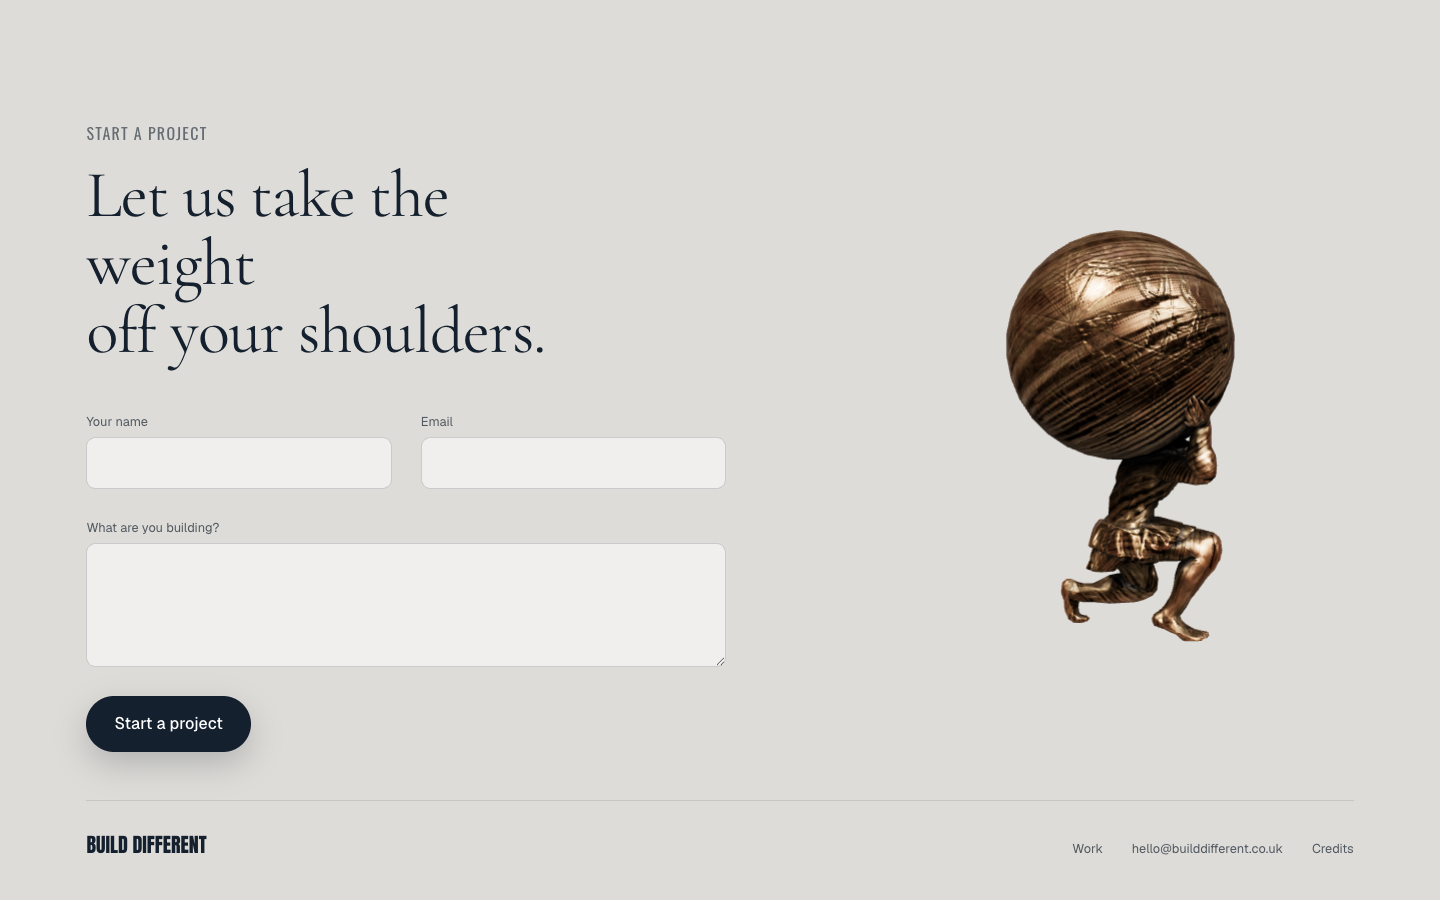
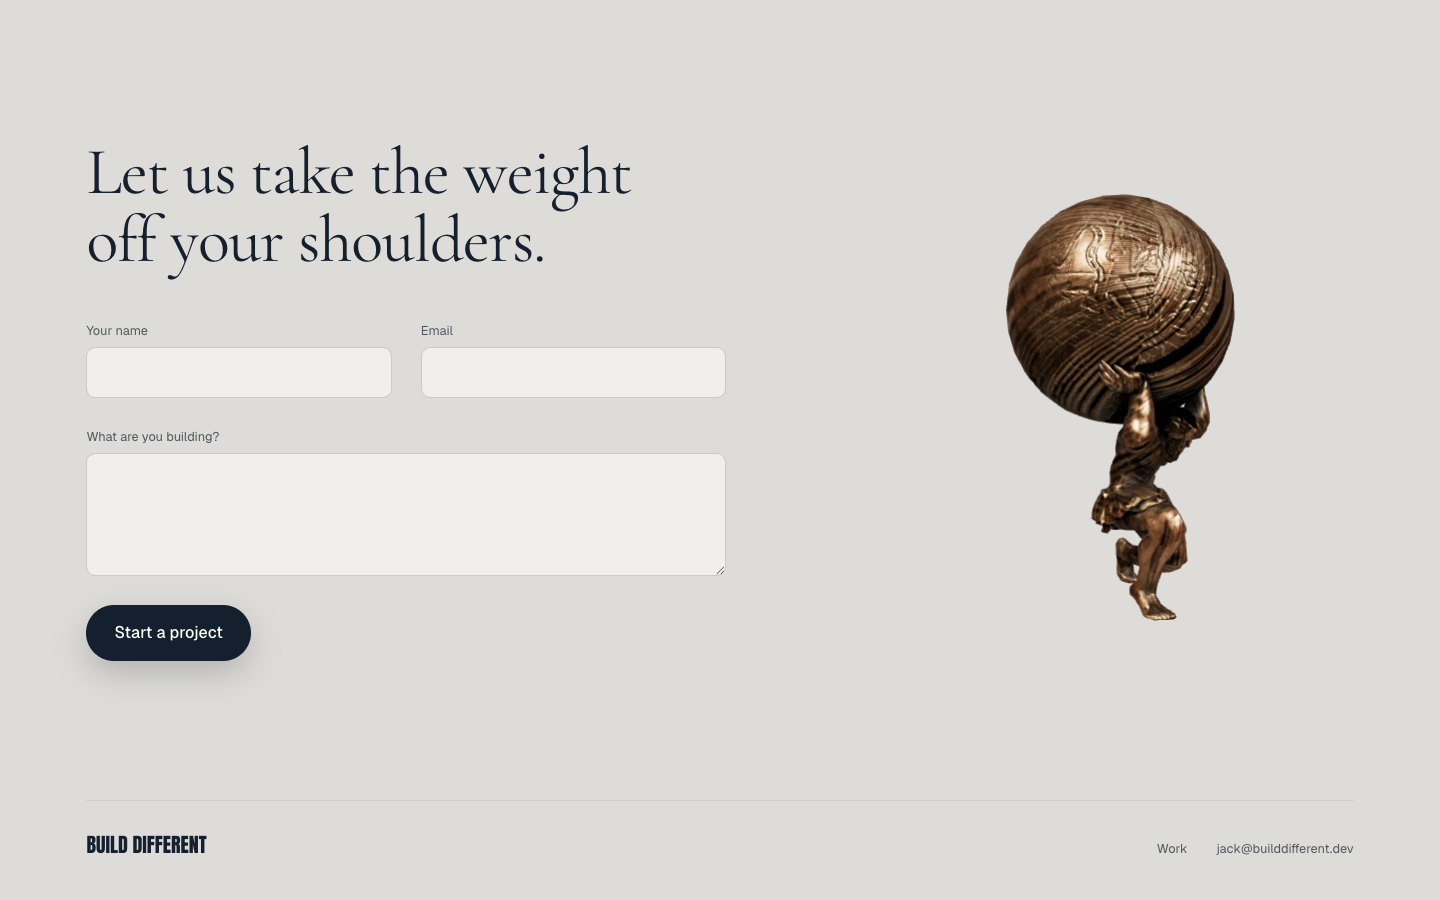
Footer: Atlas faces forward on arrival, email jack@builddifferent.dev, credits link and kicker removed, more air above the foot row
Claude-Session: https://claude.ai/code/session_01NAdPXLUXCGhh82qBsMYyAh

diff --git a/src/footer/AtlasCanvas.tsx b/src/footer/AtlasCanvas.tsx
@@ -7,9 +7,15 @@ import * as THREE from "three";
 const ATLAS = "/models/atlas.glb?v=2026-09-05a";
 const DRACO = "/draco/";
 
-function Atlas() {
+/** the yaw at which Atlas faces the viewer; ?atlasYaw= on the URL overrides it and holds him still, for QA */
+const qaYaw = typeof window !== "undefined" ? new URLSearchParams(window.location.search).get("atlasYaw") : null;
+const FRONT = qaYaw !== null ? Number(qaYaw) : -Math.PI / 2;
+
+function Atlas({ visible }: { visible: boolean }) {
   const gltf = useGLTF(ATLAS, DRACO);
   const group = useRef<THREE.Group>(null);
+  // every time the footer comes into view he starts facing forward, then turns
+  useEffect(() => { if (visible && group.current) group.current.rotation.y = FRONT; }, [visible]);
   const scene = useMemo(() => {
     const s = gltf.scene;
     s.traverse((o) => { if ((o as THREE.Mesh).isMesh) { (o as THREE.Mesh).castShadow = true; (o as THREE.Mesh).receiveShadow = true; } });
@@ -18,11 +24,11 @@ function Atlas() {
   const reduced = useRef(false);
   useEffect(() => { reduced.current = window.matchMedia("(prefers-reduced-motion: reduce)").matches; }, []);
   useFrame((_, dt) => {
-    if (!group.current || reduced.current) return;
+    if (!group.current || reduced.current || qaYaw !== null) return;
     group.current.rotation.y += Math.min(dt, 0.05) * 0.22;
   });
   return (
-    <group ref={group} position={[0, -1.1, 0]} rotation={[0, -0.6, 0]}>
+    <group ref={group} position={[0, -1.1, 0]} rotation={[0, FRONT, 0]}>
       <primitive object={scene} />
     </group>
   );
@@ -45,7 +51,7 @@ export function AtlasCanvas() {
         onCreated={({ gl }) => { gl.toneMapping = THREE.ACESFilmicToneMapping; gl.toneMappingExposure = 1.0; gl.setClearColor(0x000000, 0); }}>
         <Suspense fallback={null}>
           <Environment files="/hdri/brown_photostudio_02_1k.hdr" environmentIntensity={0.9} />
-          <Atlas />
+          <Atlas visible={visible} />
         </Suspense>
         <directionalLight position={[-3, 5, 3]} intensity={2.4} color="#fff3e6" castShadow shadow-mapSize={[1024, 1024]} />
         <hemisphereLight args={["#dfe8f2", "#6f6a63", 0.5]} />

diff --git a/src/footer/Footer.tsx b/src/footer/Footer.tsx
@@ -6,9 +6,8 @@ export function Footer() {
     <footer className="footer" id="contact">
       <div className="footer__inner">
         <div className="footer__copy">
-          <p className="footer__kicker">Start a project</p>
           <h2 className="footer__title">Let us take the weight<br />off your shoulders.</h2>
-          <form className="footer__form" action="mailto:hello@builddifferent.co.uk" method="post" encType="text/plain">
+          <form className="footer__form" action="mailto:jack@builddifferent.dev" method="post" encType="text/plain">
             <label className="field">
               <span>Your name</span>
               <input name="name" type="text" autoComplete="name" required />
@@ -30,8 +29,7 @@ export function Footer() {
         <span className="footer__brand">Build Different</span>
         <nav className="footer__links" aria-label="Footer">
           <a href="/work">Work</a>
-          <a href="mailto:hello@builddifferent.co.uk">hello@builddifferent.co.uk</a>
-          <a href="/CREDITS.md">Credits</a>
+          <a href="mailto:jack@builddifferent.dev">jack@builddifferent.dev</a>
         </nav>
       </div>
     </footer>

diff --git a/src/app/globals.css b/src/app/globals.css
@@ -901,8 +901,9 @@ footer.section {
   justify-content: space-between;
   align-items: baseline;
   gap: var(--pad);
+  margin-top: clamp(3rem, 8vh, 6rem);
   padding-top: var(--pad);
-  border-top: 1px solid rgba(20, 32, 46, 0.12);
+  border-top: 1px solid rgba(20, 32, 46, 0.08);
   font-family: var(--font-body);
   font-size: var(--step--1);
   color: rgba(20, 32, 46, 0.7);
